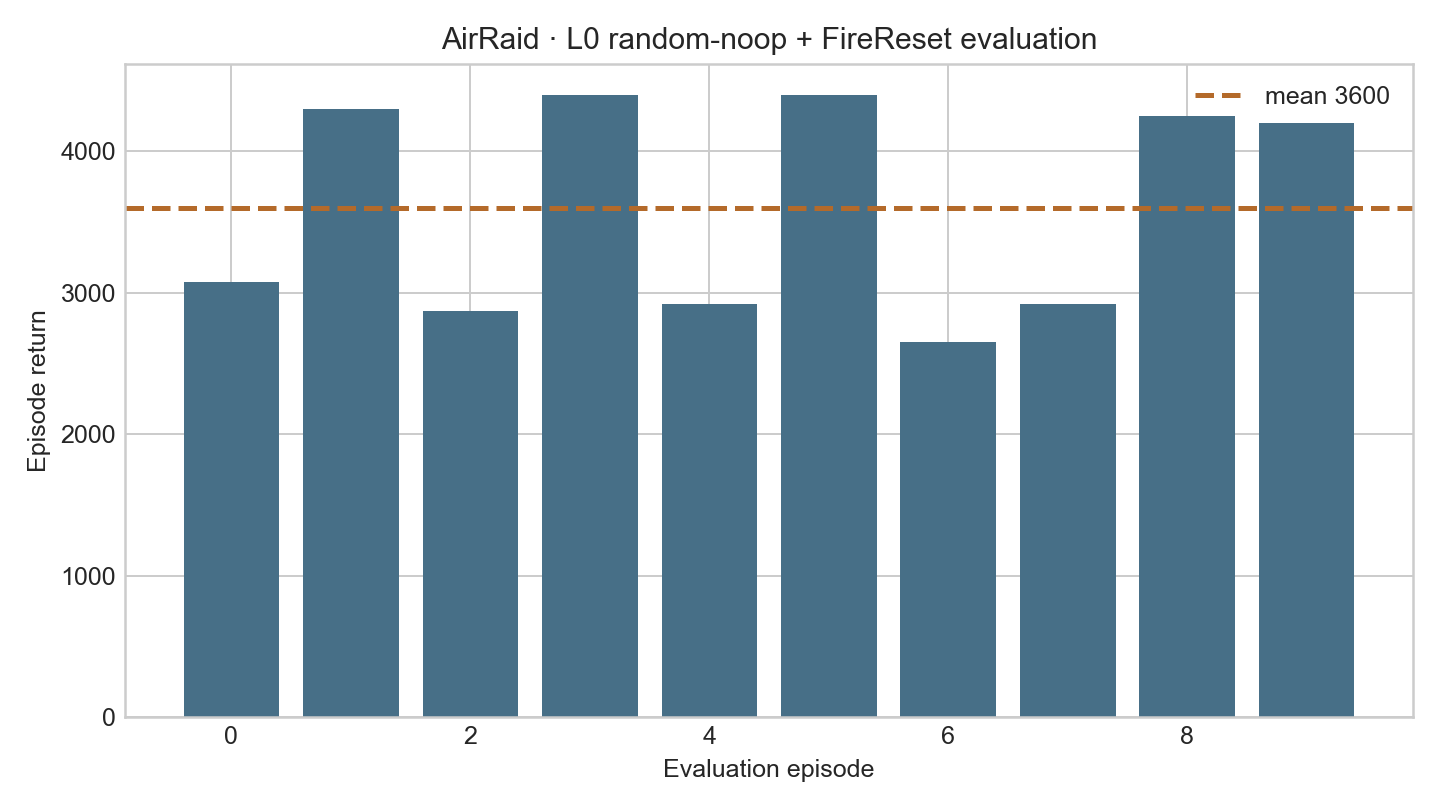
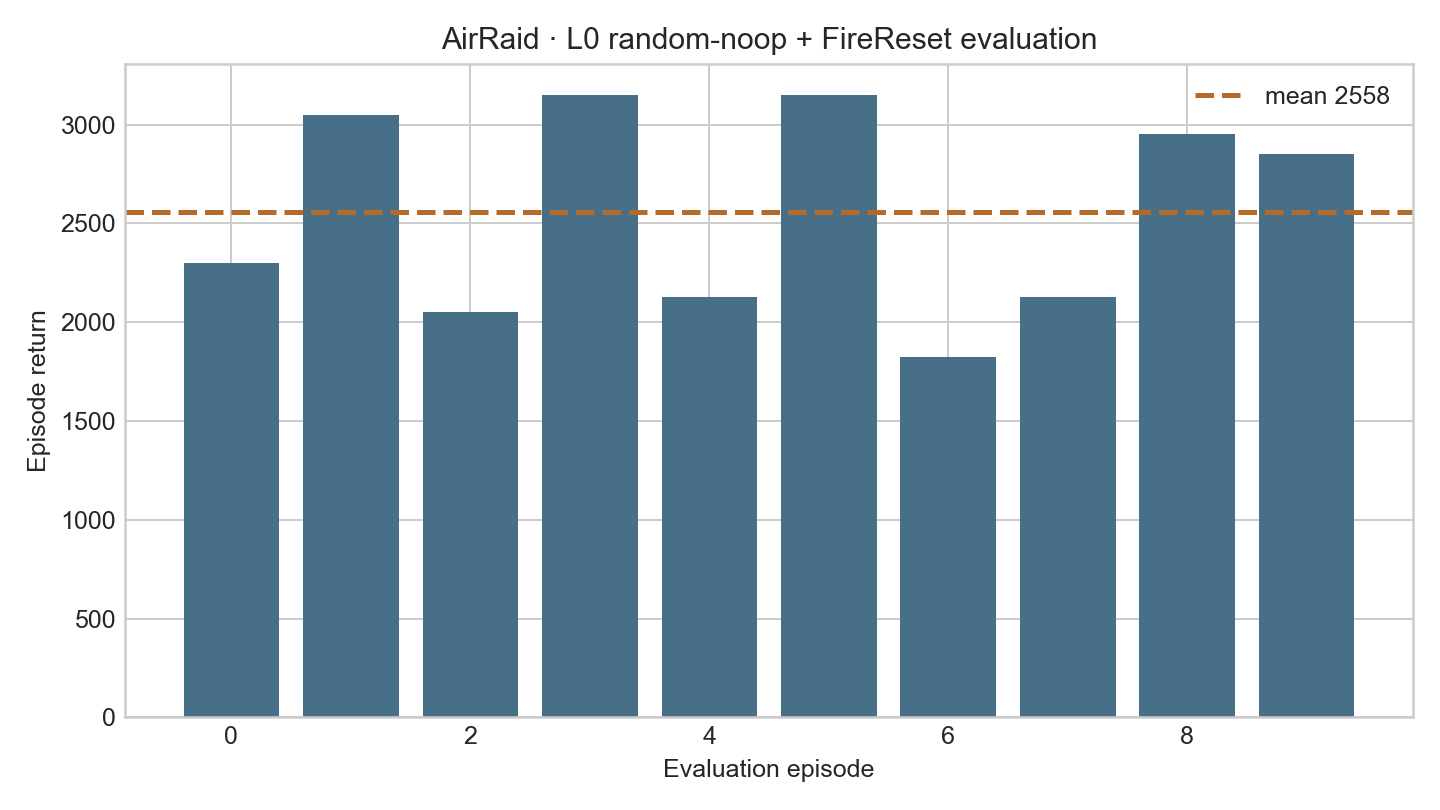
docs(air-raid): publish 3600-frame small-model eval

diff --git a/docs/gym-adapt/gymnasium/air_raid/index.html b/docs/gym-adapt/gymnasium/air_raid/index.html
@@ -18,7 +18,7 @@
         <article><span class="status verified">VERIFIED</span><h3>Latency-bench evaluation</h3><p>Ten deterministic episodes used seeded 1–30 NOOP reset steps followed by FireReset.</p></article>
         <article><span class="status notrun">NOT RUN</span><h3>Teacher and VLA</h3><p>No teacher rollout, conversion, SFT, or VLA evaluation is claimed for this run.</p></article>
       </div>
-      <div class="metric-strip"><div><strong>10,006,528</strong><span>raw training frames</span></div><div><strong>7,299 FPS</strong><span>overall throughput</span></div><div><strong>3,600</strong><span>mean eval return</span></div><div><strong>0 ms</strong><span>action latency</span></div></div>
+      <div class="metric-strip"><div><strong>10,006,528</strong><span>raw training frames</span></div><div><strong>7,299 FPS</strong><span>overall throughput</span></div><div><strong>2,557.5</strong><span>mean eval return</span></div><div><strong>0 ms</strong><span>action latency</span></div></div>
       <div class="callout warning"><strong>Evaluation fidelity:</strong> loading only the checkpoint weights was insufficient. Correct evaluation also required <code>convnet_atari</code>, frame stack 4, and the checkpoint's <code>obs_scale=255</code>. Using <code>obs_scale=1</code> collapsed deterministic actions to NOOP.</div>
     </section>
 
@@ -41,7 +41,7 @@ evaluation:
   fire_reset: true
   deterministic: true
   eval_episodes: 10
-  eval_max_steps: 5000</code></pre></details>
+  eval_max_steps: 3600</code></pre></details>
     </section>
 
     <section id="training"><p class="section-kicker">03 · Training</p><h2>Sample Factory Atari parameters</h2>
@@ -54,9 +54,9 @@ evaluation:
 
     <section id="evaluation"><p class="section-kicker">04 · Evaluation</p><h2>Ten seeded random-noop + FireReset episodes</h2>
       <div class="table-wrap"><table><thead><tr><th>Episode</th><th>Seed</th><th>Return</th><th>Raw steps</th></tr></thead><tbody>
-        <tr><td>0</td><td>104729</td><td>3,075</td><td>5,000</td></tr><tr><td>1</td><td>104730</td><td>4,300</td><td>5,000</td></tr><tr><td>2</td><td>104731</td><td>2,875</td><td>5,000</td></tr><tr><td>3</td><td>104732</td><td>4,400</td><td>5,000</td></tr><tr><td>4</td><td>104733</td><td>2,925</td><td>5,000</td></tr><tr><td>5</td><td>104734</td><td>4,400</td><td>5,000</td></tr><tr><td>6</td><td>104735</td><td>2,650</td><td>5,000</td></tr><tr><td>7</td><td>104736</td><td>2,925</td><td>5,000</td></tr><tr><td>8</td><td>104737</td><td>4,250</td><td>5,000</td></tr><tr><td>9</td><td>104738</td><td>4,200</td><td>5,000</td></tr>
+        <tr><td>0</td><td>104729</td><td>2,300</td><td>3,600</td></tr><tr><td>1</td><td>104730</td><td>3,050</td><td>3,600</td></tr><tr><td>2</td><td>104731</td><td>2,050</td><td>3,600</td></tr><tr><td>3</td><td>104732</td><td>3,150</td><td>3,600</td></tr><tr><td>4</td><td>104733</td><td>2,125</td><td>3,600</td></tr><tr><td>5</td><td>104734</td><td>3,150</td><td>3,600</td></tr><tr><td>6</td><td>104735</td><td>1,825</td><td>3,600</td></tr><tr><td>7</td><td>104736</td><td>2,125</td><td>3,600</td></tr><tr><td>8</td><td>104737</td><td>2,950</td><td>3,600</td></tr><tr><td>9</td><td>104738</td><td>2,850</td><td>3,600</td></tr>
       </tbody></table></div>
-      <p>Mean return <strong>3,600</strong>; standard deviation <strong>718.85</strong>; mean length <strong>5,000 raw steps</strong>.</p>
+      <p>Mean return <strong>2,557.5</strong>; standard deviation <strong>491.81</strong>; mean length <strong>3,600 raw frames</strong>.</p>
       <figure><img src="assets/air_raid/eval_returns.png" width="1440" height="810" loading="lazy" alt="AirRaid L0 random-noop FireReset evaluation returns"><figcaption><span class="status verified">VERIFIED</span> Deterministic best-checkpoint returns under the final protocol.</figcaption></figure>
     </section>
 
@@ -70,7 +70,7 @@ evaluation:
       <div class="media-pair"><figure><img src="assets/air_raid/reset.png" width="160" height="250" loading="lazy" alt="AirRaid native RGB reset frame"><figcaption>Native RGB reset frame.</figcaption></figure><figure><img src="assets/air_raid/action_catalog_trace.gif" width="160" height="250" loading="lazy" alt="AirRaid action catalog trace"><figcaption>Native six-action trace.</figcaption></figure></div>
     </section>
 
-    <section id="limits"><p class="section-kicker">07 · Limits</p><h2>What this result does and does not establish</h2><ul class="steps"><li>The protocol uses one ALE mode, one difficulty, no sticky actions, and seed 0 training.</li><li>Evaluation is capped at 5,000 raw frames, so its scores are not directly comparable to longer training episodes.</li><li>Random-noop and FireReset are eval-only; training uses <code>noop_max=0</code>.</li><li>The four-frame policy observation is distinct from the native RGB rendering preserved for later rollout.</li><li>No rollout dataset or VLA model is claimed yet.</li></ul></section>
+    <section id="limits"><p class="section-kicker">07 · Limits</p><h2>What this result does and does not establish</h2><ul class="steps"><li>The protocol uses one ALE mode, one difficulty, no sticky actions, and seed 0 training.</li><li>Evaluation is capped at the shared 3,600-raw-frame small-model, rollout, and VLA budget.</li><li>Random-noop and FireReset are eval-only for this checkpoint; training uses <code>noop_max=0</code>.</li><li>The four-frame policy observation is distinct from the native RGB rendering preserved for later rollout.</li><li>No new rollout dataset or VLA model is claimed by this small-model reevaluation.</li></ul></section>
   </main></div>
-  <footer>AirRaid adaptation record · synchronized 10M L0 training and random-noop FireReset evaluation · 22 August 2026</footer>
+  <footer>AirRaid adaptation record · synchronized 10M L0 training and 3,600-frame random-noop FireReset evaluation · 29 August 2026</footer>
 </body></html>

diff --git a/docs/gym-adapt/gymnasium/air_raid/README.md b/docs/gym-adapt/gymnasium/air_raid/README.md
@@ -10,5 +10,5 @@ The current rerun contract is encoded in
 [`scripts/bash_scripts/rollout_data/air_raid.sh`](../../../../scripts/bash_scripts/rollout_data/air_raid.sh):
 teacher rollout uses random-noop 30 plus FireReset, 3,600 raw frames, and
 `context_window=0`. The small-model and VLA evaluation configs also use a
-3,600-raw-frame episode budget. The HTML page retains the earlier 5,000-frame
-small-model evidence as an archived result.
+3,600-raw-frame episode budget. The HTML report and synchronized evaluation
+assets now use this contract.
